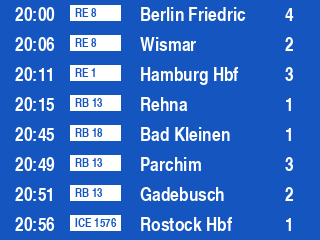
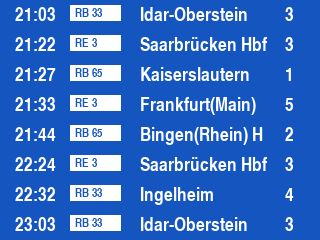
Added webserver

diff --git a/src/SignGeneratorGUI/python/generate_timetable.py b/src/SignGeneratorGUI/python/generate_timetable.py
@@ -1,70 +1,126 @@
 import argparse
-from datetime import datetime
+from datetime import datetime, timedelta
 import json
+import os
 import random
 
 from PIL import Image, ImageFont, ImageDraw
+import digitalio
+import board
+from adafruit_rgb_display import ili9341
 
 from deutsche_bahn_api.api_authentication import ApiAuthentication
 from deutsche_bahn_api.station_helper import StationHelper
 from deutsche_bahn_api.timetable_helper import TimetableHelper
 from deutsche_bahn_api.train import Train
+from deutsche_bahn_api.station import Station
+
+global_path = "/home/pi/Projects/TrainDisplay/src/SignGeneratorGUI/python"
+
+# Defined how many hours in the future trains should be displayed.
+# If it is 19:26 now and HOURS_IN_THE_FUTURE = 2, all trains between
+# 19:26 and 21:59 will be displayed
+HOURS_IN_THE_FUTURE = 2
+
+
+# Configuration for CS and DC pins (these are PiTFT defaults):
+cs_pin = digitalio.DigitalInOut(board.CE0)
+dc_pin = digitalio.DigitalInOut(board.D25)
+reset_pin = digitalio.DigitalInOut(board.D24)
+
+# Config for display baudrate (default max is 24mhz):
+BAUDRATE = 24000000
+
+# Setup SPI bus using hardware SPI:
+spi = board.SPI()
+
+
+disp = ili9341.ILI9341(
+    spi,
+    rotation=90,  # 2.2", 2.4", 2.8", 3.2" ILI9341
+    cs=cs_pin,
+    dc=dc_pin,
+    rst=reset_pin,
+    baudrate=BAUDRATE,
+)
+
 
 class TimeTableEntry:
 
-   def __init__(self, train: Train):
-      # Just take the final destination
-      self.destination = train.stations.split("|")[-1][:15]
+    def __init__(self, train: Train):
+        # Just take the final destination
+        self.destination = train.stations.split("|")[-1][:15]
 
-      # Take hour and minute from the departure time
-      self.departure_time = datetime.strptime(train.departure, '%y%m%d%H%M')
+        # Take hour and minute from the departure time
+        self.departure_time = datetime.strptime(train.departure, '%y%m%d%H%M')
 
-      # Some platforms might contain letters, eg 11A-D, remove them
-      self.platform = ''.join(filter(str.isdigit, train.platform))
-      if self.platform == "":
-         self.platform = str(random.randint(1, 10))
+        # Some platforms might contain letters, eg 11A-D, remove them
+        self.platform = ''.join(filter(str.isdigit, train.platform))
+        if self.platform == "":
+            self.platform = str(random.randint(1, 10))
 
-      self.train_id = ""
-      # Some trains (e.g. IC) do not have the train_line attribute
-      if hasattr(train, "train_line"):
-         # Some train lines already contain the train type, e.g. RS30
-         if any(c.isalpha() for c in train.train_line):
-            self.train_id = train.train_line
-         else:
-            self.train_id = train.train_type + " " + train.train_line
-      else:
-         self.train_id = train.train_type + " " + train.train_number
+        self.train_id = ""
+        # Some trains (e.g. IC) do not have the train_line attribute
+        if hasattr(train, "train_line"):
+            # Some train lines already contain the train type, e.g. RS30
+            if any(c.isalpha() for c in train.train_line):
+                self.train_id = train.train_line
+            else:
+                self.train_id = train.train_type + " " + train.train_line
+        else:
+            self.train_id = train.train_type + " " + train.train_number
+
+def generate_timetable_from_eva_nr(eva_nr: int, credentials_file_path: str = "credentials.json"):
+    station_helper = StationHelper()
+    station: Station = station_helper.find_station_by_eva_nr(eva_nr)
+    generate_timetable(station, credentials_file_path)
+
+def generate_timetable(station: Station, credentials_file_path: str = "credentials.json"):
+    with open(credentials_file_path) as f:
+        auth_json = json.load(f)
+    api = ApiAuthentication(auth_json["id"], auth_json["key"])
+    success: bool = api.test_credentials()
+
+    timetable_helper = TimetableHelper(station, api)
+    time_now = datetime.now()
+    trains_in_this_hour: list(Train) = []
+
+    for hour_extension in range(HOURS_IN_THE_FUTURE + 1):
+        trains_in_this_hour += timetable_helper.get_timetable((time_now + timedelta(hours=hour_extension)).hour)
+
+    time_table_entries = [TimeTableEntry(train) for train in trains_in_this_hour]
+    time_table_entries = list(filter(lambda t: t.departure_time > time_now, time_table_entries))
+    time_table_entries = sorted(time_table_entries, key = lambda x: x.departure_time)
+
+    display_image = Image.new("RGB", (320, 240), (20, 85, 192))
+    draw = ImageDraw.Draw(display_image)
+    font = ImageFont.truetype(os.path.join(global_path, "NimbusSanL-BoldCond.ttf"), 12)
+    font_bold = ImageFont.truetype(os.path.join(global_path, "NimbusSanL-BoldCond.ttf"), 19)
+
+    for i, entry in enumerate(time_table_entries[:8]):
+        draw.text((15, 30*i+2), entry.departure_time.strftime("%H:%M"), (255,255,255), font=font_bold)
+        draw.text((140, 30*i+2), entry.destination, (255,255,255), font=font_bold)
+        draw.text((285, 30*i+2), entry.platform, (255,255,255), font=font_bold)
+        draw.rectangle([70, 30*i+5, 120, 30*i+20], fill="#ffffff")
+        draw.text((75, 30*i+5), entry.train_id, (20, 85, 192), font=font)
+
+    disp.image(display_image)
+    display_image.save(os.path.join(global_path, "display_image.png"))
 
 
 if __name__ == "__main__":
-   parser = argparse.ArgumentParser()
-   parser.add_argument('-s','--station', help='The name of the station to show departures from', default="Bremen Hbf")
-   args = vars(parser.parse_args())
+    parser = argparse.ArgumentParser()
+    parser.add_argument('-s','--station', help='The name of the station to show departures from', default="Bremen Hbf")
+    parser.add_argument('-e','--eva_nr', help='The EVA number of the station')
+    args = vars(parser.parse_args())
 
-   with open('credentials.json') as f:
-      auth_json = json.load(f)
-   api = ApiAuthentication(auth_json["id"], auth_json["key"])
-   success: bool = api.test_credentials()
+    station_helper = StationHelper()
+    station: Station = None
 
-   station_helper = StationHelper()
-   found_stations_by_name = station_helper.find_stations_by_name(args["station"])
+    if args["eva_nr"] is None:
+        found_stations_by_name = station_helper.find_stations_by_name(args["station"])
+        station = found_stations_by_name[0]
+    else:
+        station = station_helper.find_station_by_eva_nr(int(args["eva_nr"]))
 
-   timetable_helper = TimetableHelper(found_stations_by_name[0], api)
-   trains_in_this_hour = timetable_helper.get_timetable()
-
-   time_table_entries = [TimeTableEntry(train) for train in trains_in_this_hour]
-   time_table_entries = sorted(time_table_entries, key = lambda x: x.departure_time)
-
-   display_image = Image.new("RGB", (320, 240), (20, 85, 192))
-   draw = ImageDraw.Draw(display_image)
-   font = ImageFont.truetype("NimbusSanL-BoldCond.ttf", 12)
-   font_bold = ImageFont.truetype("NimbusSanL-BoldCond.ttf", 19)
-
-   for i, entry in enumerate(time_table_entries[:8]):
-      draw.text((15, 30*i+2), entry.departure_time.strftime("%H:%M"), (255,255,255), font=font_bold)
-      draw.text((140, 30*i+2), entry.destination, (255,255,255), font=font_bold)
-      draw.text((285, 30*i+2), entry.platform, (255,255,255), font=font_bold)
-      draw.rectangle([70, 30*i+5, 120, 30*i+20], fill="#ffffff")
-      draw.text((75, 30*i+5), entry.train_id, (20, 85, 192), font=font)
-
-   display_image.save("display_image.png")
+    generate_timetable(station)

diff --git a/src/SignGeneratorGUI/python/deutsche_bahn_api/station_helper.py b/src/SignGeneratorGUI/python/deutsche_bahn_api/station_helper.py
@@ -1,6 +1,7 @@
 import json
 import pkgutil
 import mpu
+from typing import Optional
 
 from deutsche_bahn_api.station import Station
 
@@ -53,3 +54,13 @@ class StationHelper:
                 results.append(station)
 
         return results
+
+    def find_station_by_eva_nr(self, eva_nr: int) -> Optional[Station]:
+        result: Station = None
+
+        for station in self.stations_list:
+            if eva_nr == station.EVA_NR:
+                result = station
+                break
+
+        return result

diff --git a/src/SignGeneratorGUI/python/webserver.py b/src/SignGeneratorGUI/python/webserver.py
@@ -1,0 +1,17 @@
+from flask import Flask
+
+from generate_timetable import generate_timetable_from_eva_nr
+
+app = Flask(__name__)
+
+@app.route('/')
+def index():
+    return 'Hello world'
+
+@app.get('/generate_timetable/<eva_nr>')
+def single_converter(eva_nr):
+    generate_timetable_from_eva_nr(int(eva_nr), "/home/pi/Projects/TrainDisplay/src/SignGeneratorGUI/python/credentials.json")
+    return "Generated"
+
+if __name__ == '__main__':
+    app.run(host="0.0.0.0", port=8000, debug=True)

diff --git a/src/SignGeneratorGUI/python/gunicorn_config.py b/src/SignGeneratorGUI/python/gunicorn_config.py
@@ -1,0 +1,2 @@
+bind="0.0.0.0:8000"
+workers=2
